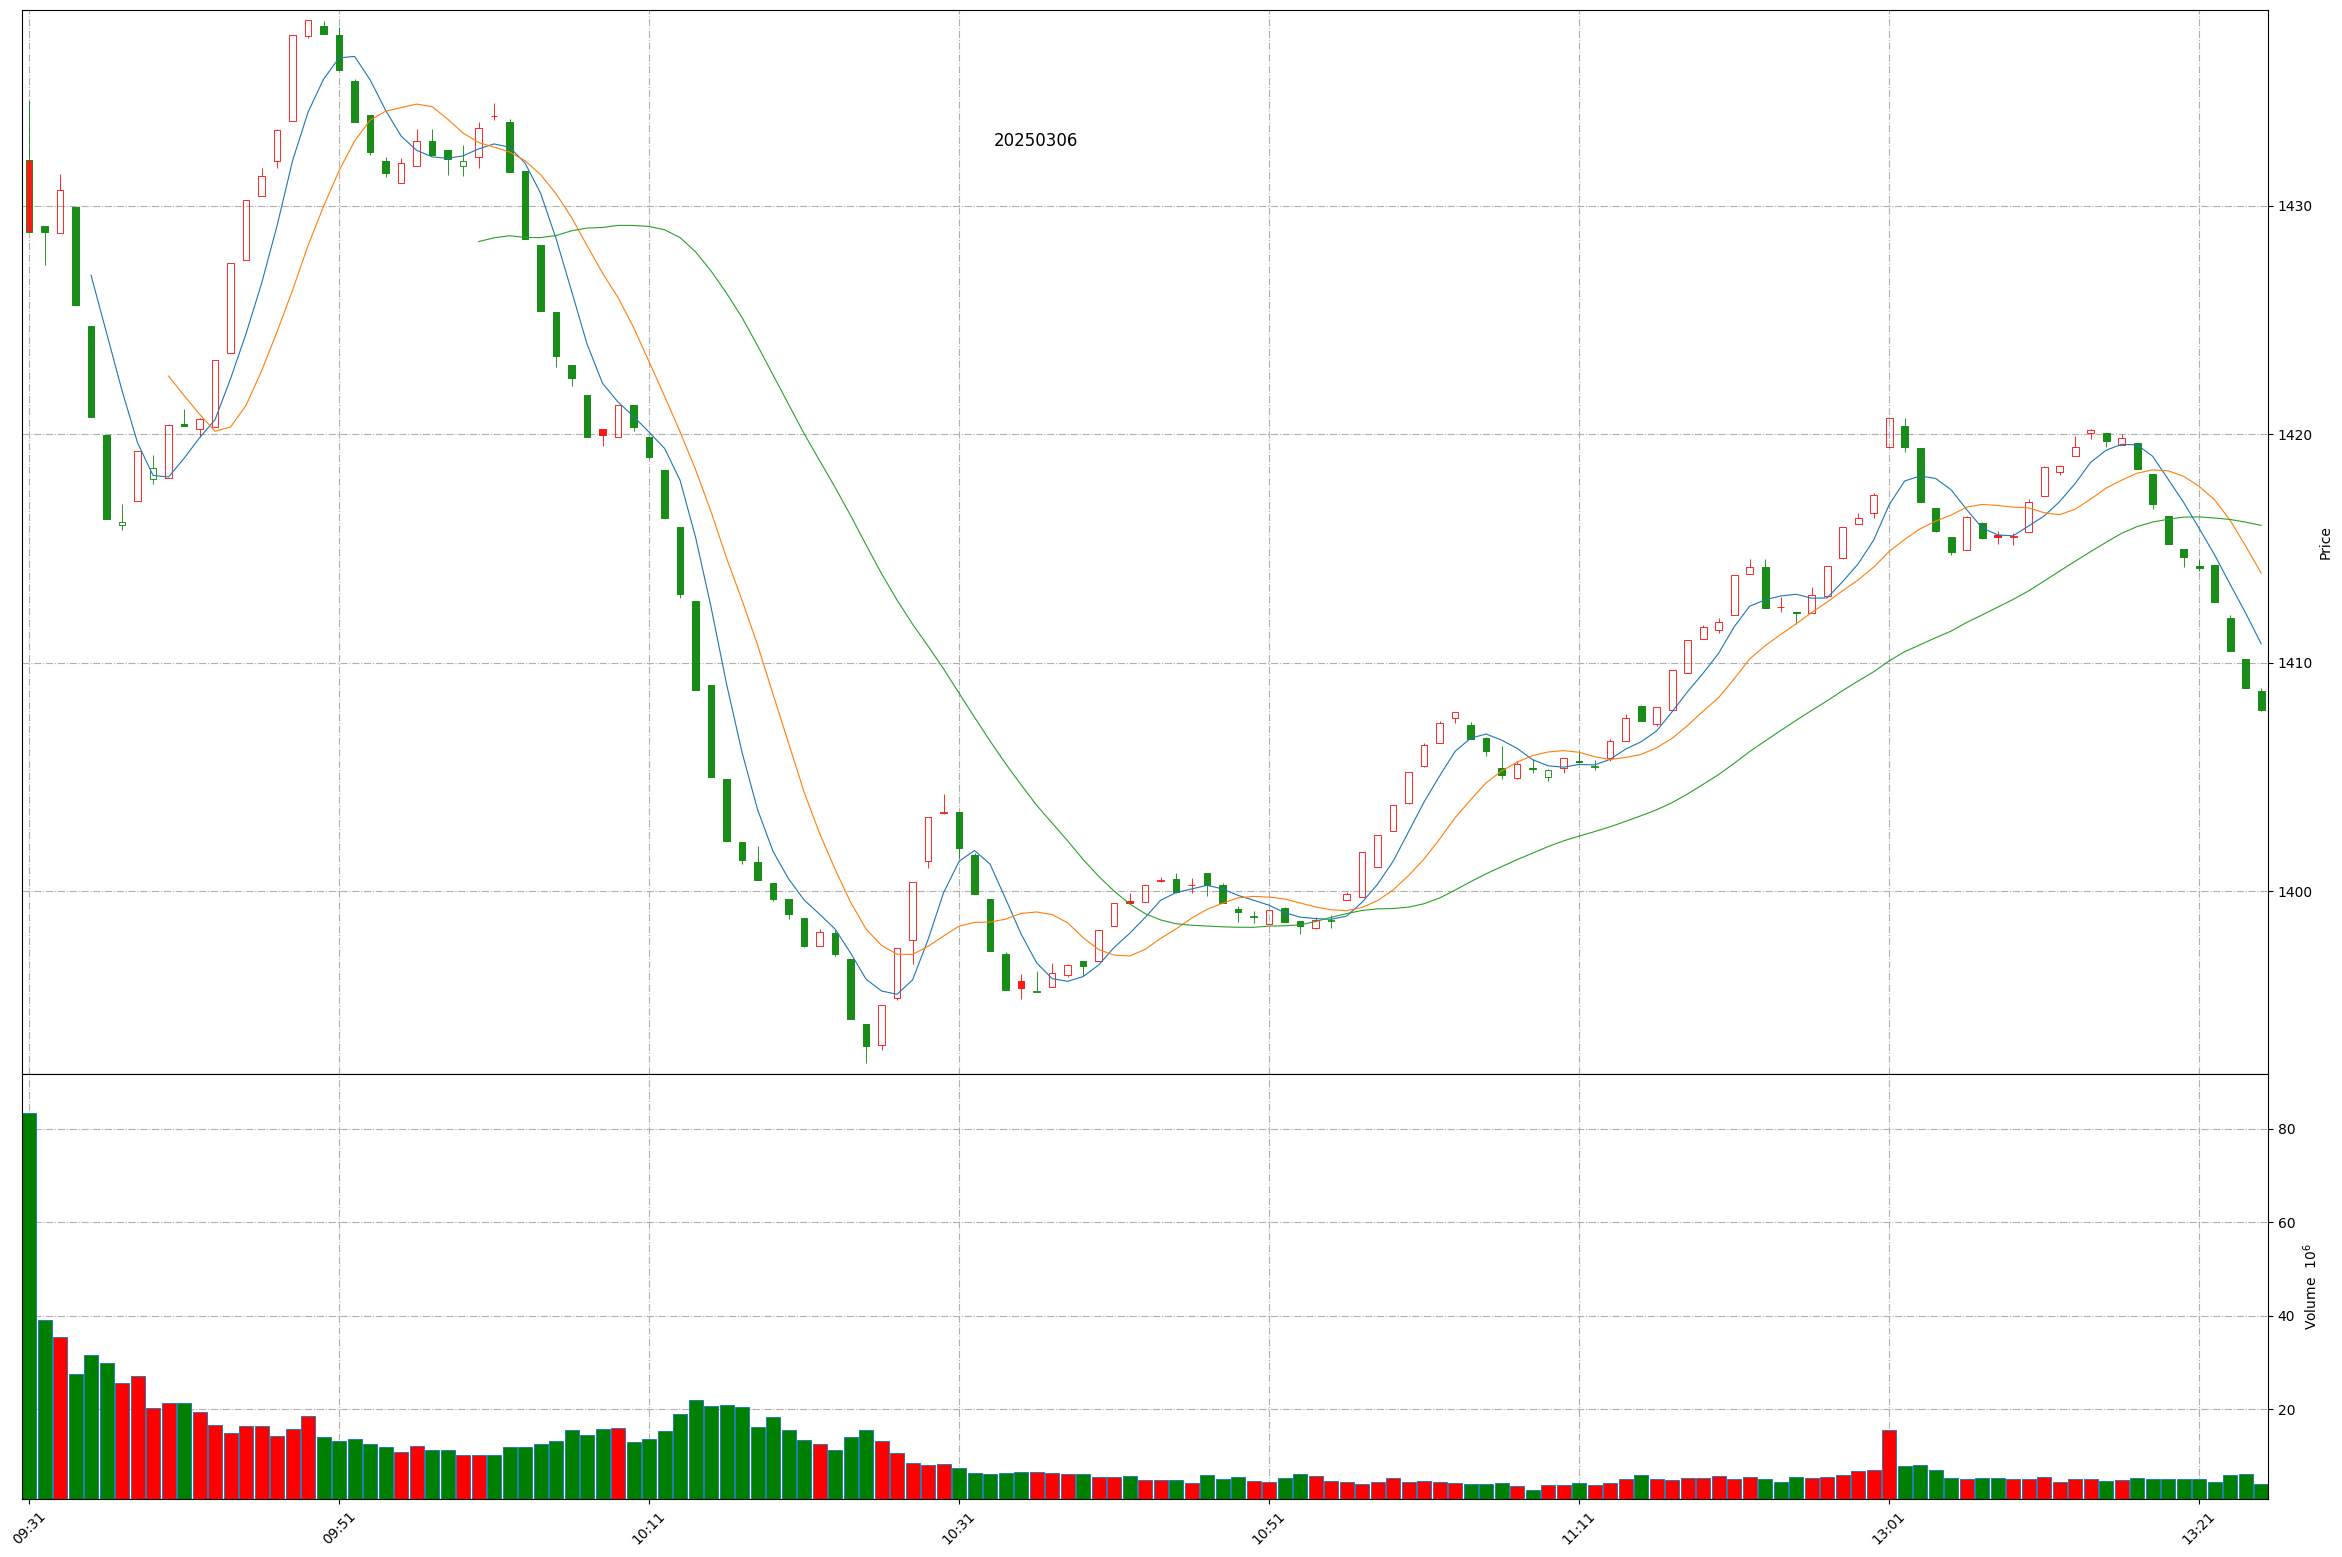
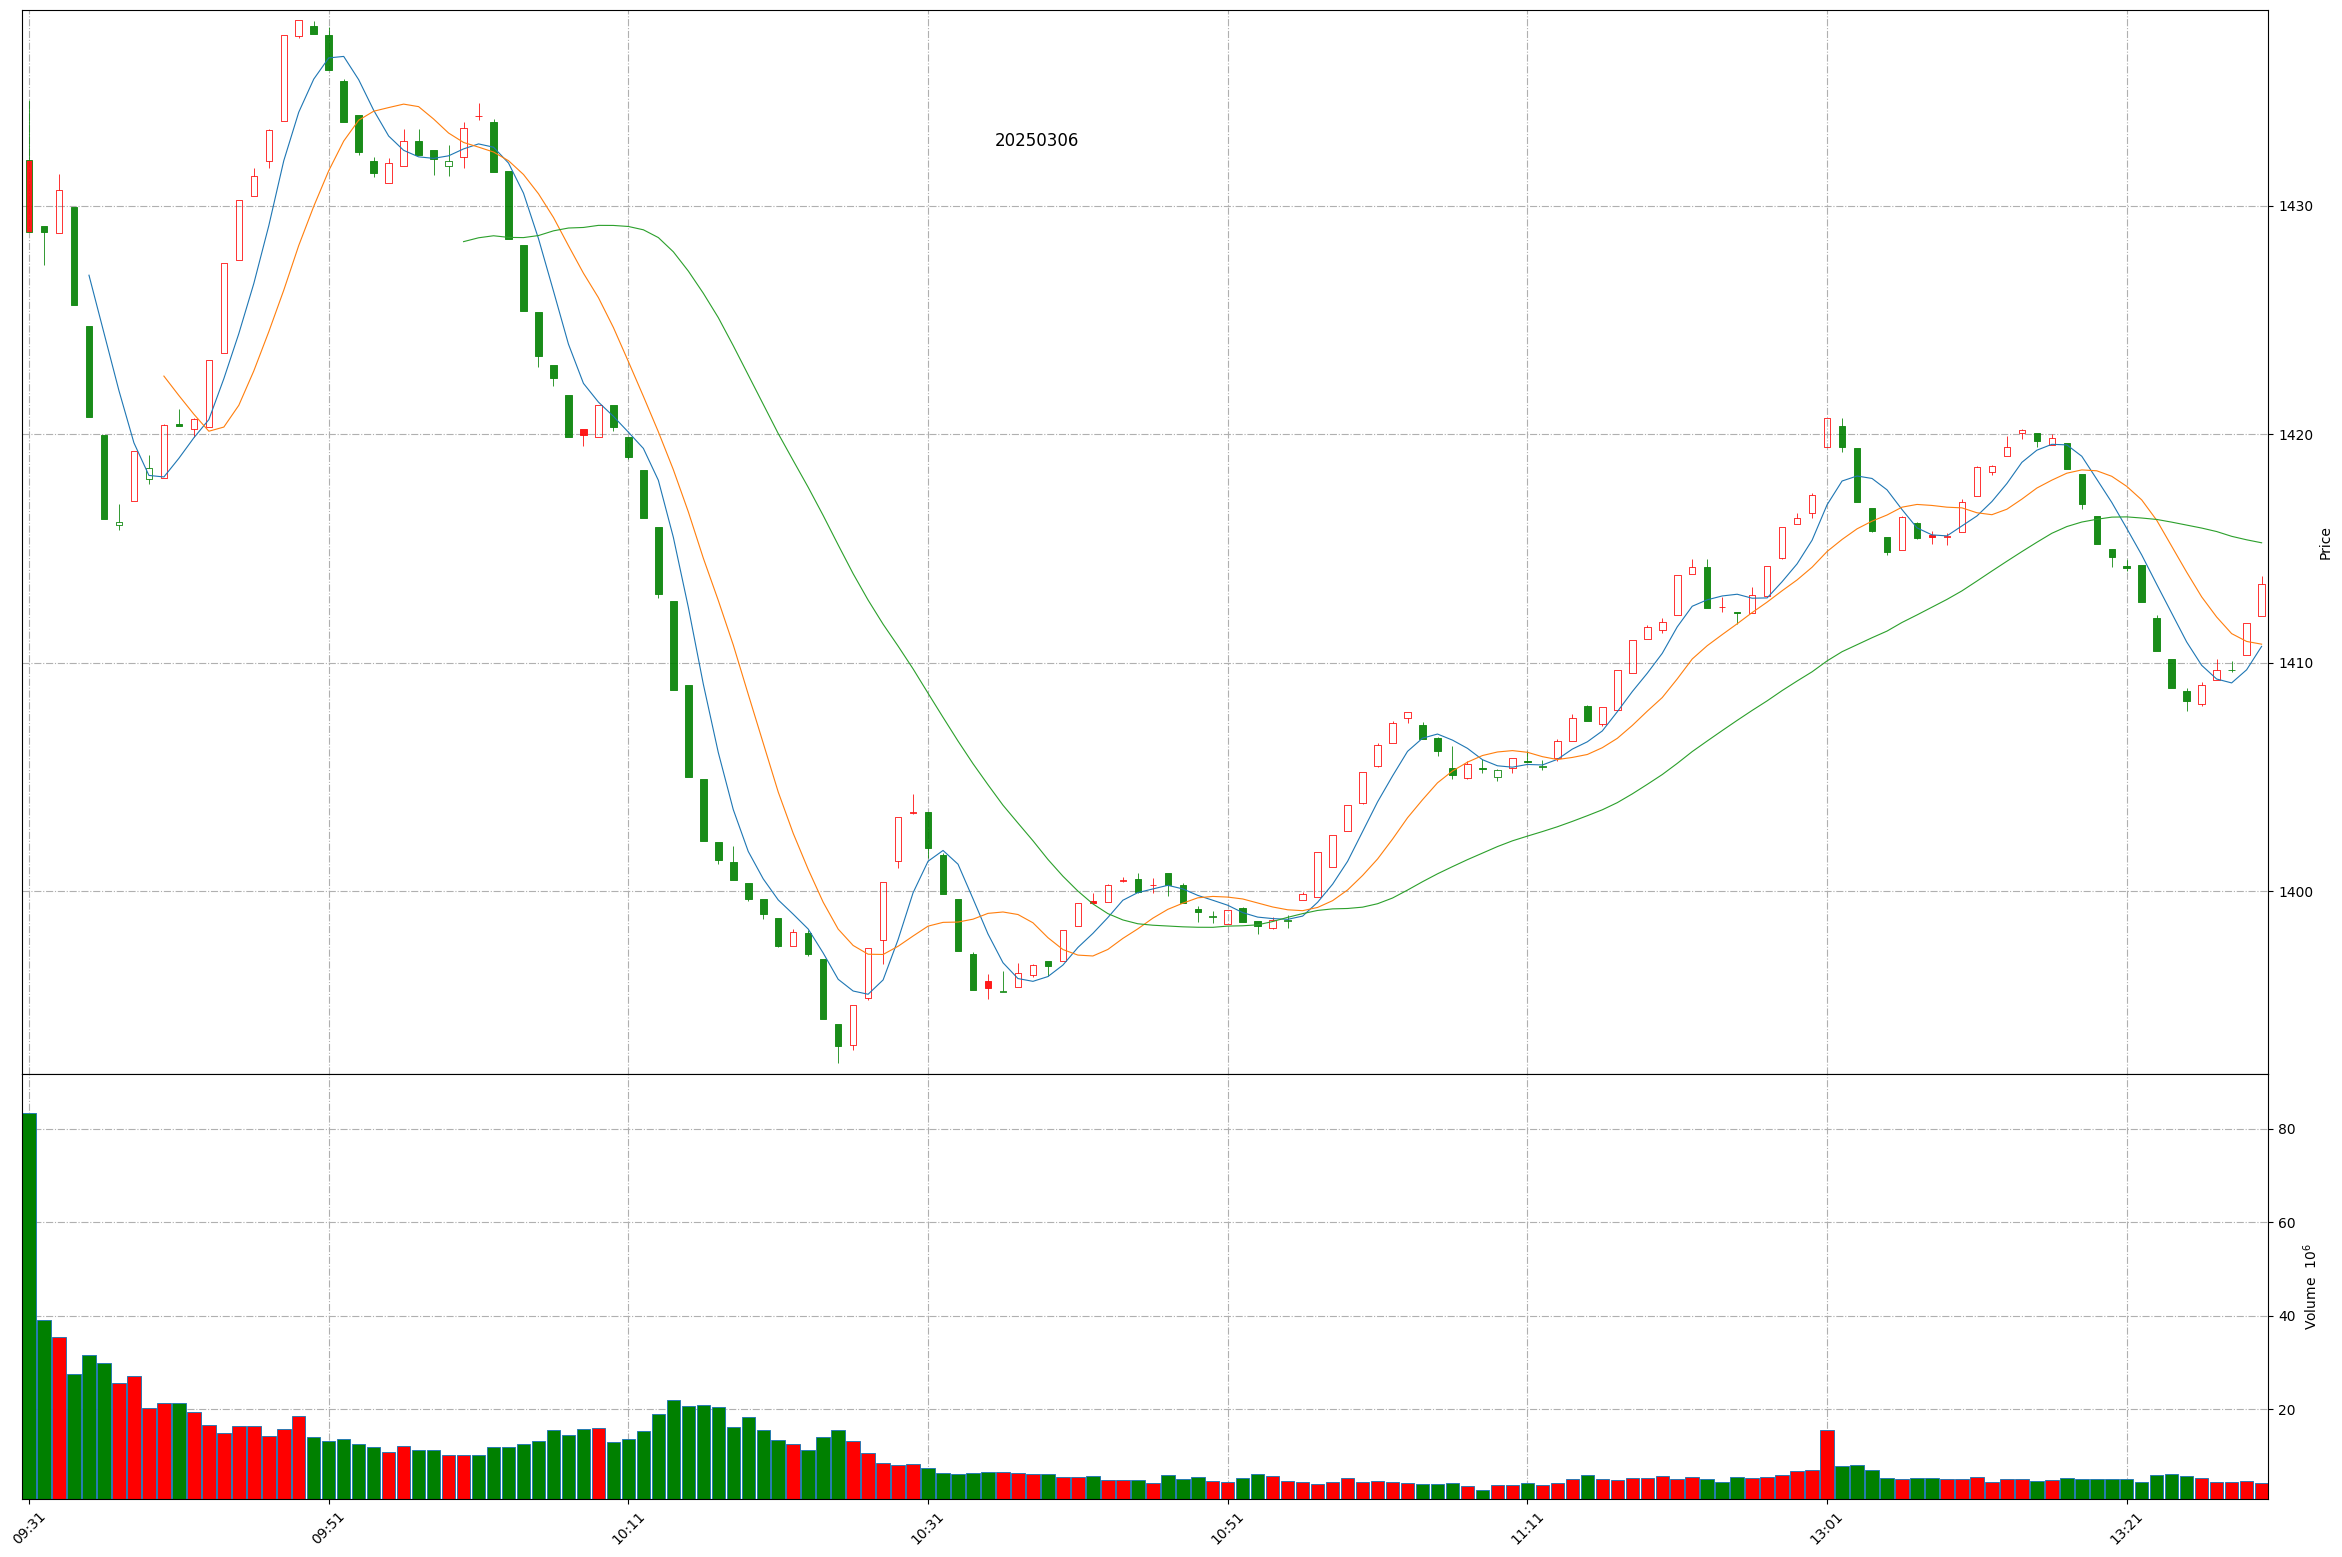
Github action update at 2025-03-06 13:30:10.

diff --git a/README.md b/README.md
@@ -1,11 +1,11 @@
 
 # Daily-A-share-market-quotes 每日 A 股指数（5min 更新）- 20250306
 
-### 上证指数 20250306 13:24
+### 上证指数 20250306 13:30
 ![](./fig/2025/3/20250306-sh000001.png)
 
-### 深证成指 20250306 13:24
+### 深证成指 20250306 13:30
 ![](./fig/2025/3/20250306-sz399001.png)
 
-### 北证50 20250306 13:24
+### 北证50 20250306 13:30
 ![](./fig/2025/3/20250306-bj899050.png)
